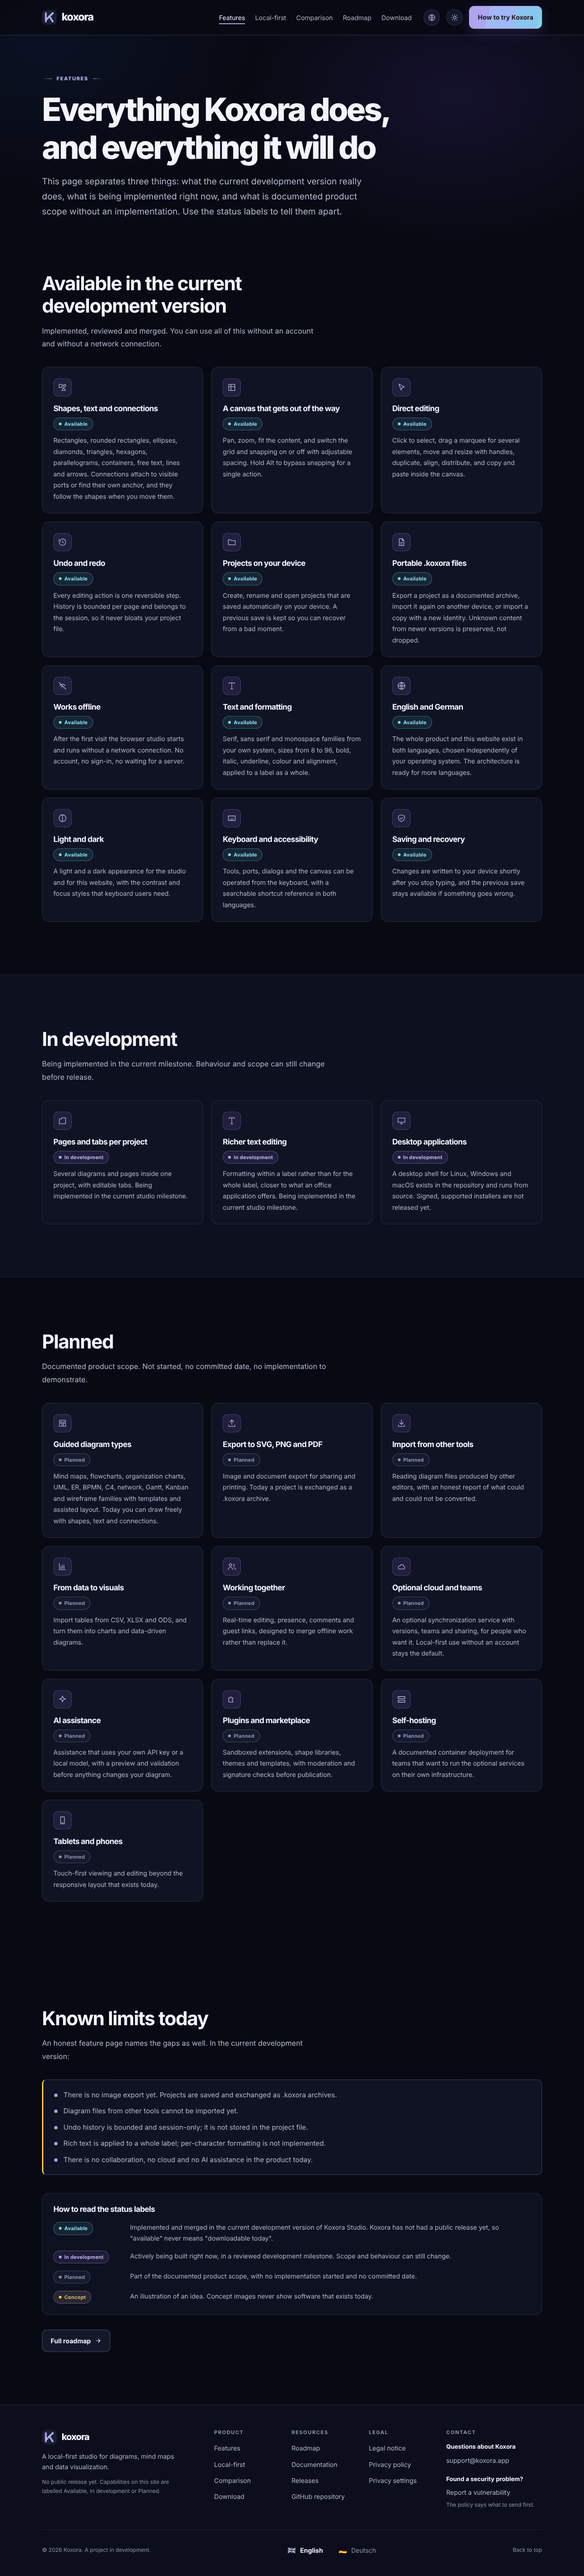
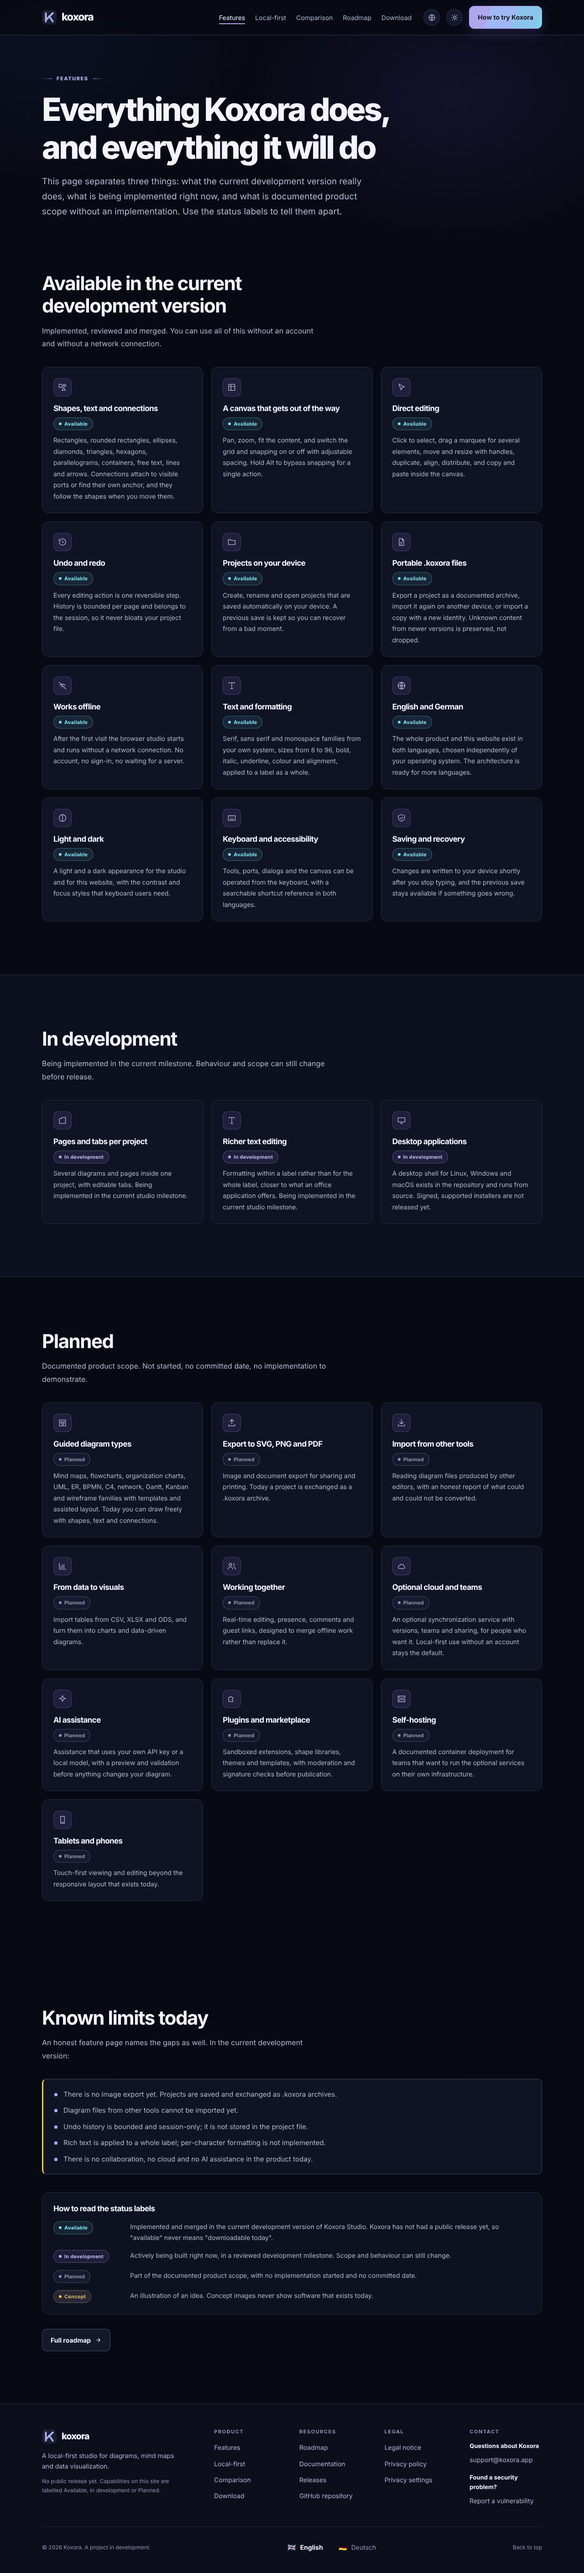
fix(website): keep the established footer layout, trim the contact column
The Product Owner's full-footer screenshot showed that the existing
desktop layout is already right, so the column widths, the brand block,
the spacing and the bottom bar go back to what they were. The previous
commit had widened the contact track to fit an explanatory line.

What remains from that commit is the part that was actually asked for:
the repository link lives with the other resources and nowhere else, and
the contact column is a concise support point plus one named security
action. The explanatory sentence is gone, because the policy the action
links to carries the reporting instructions, and the security address is
not printed in the footer, so nothing there suggests that the mailbox
has been verified.

A unit test now also pins the rule that statements about the product
survive a website launch: the footer's "No public release yet" and "A
project in development" are not launch-sensitive, are absent from the
launch switch, and carry no claim about this website's own publication.

The deferred contact form is tracked as issue #30 and the open point
names it.

Screenshots: the footer in both languages on desktop and phone.

Verification on 2026-10-25: pnpm check passed with 227 unit tests;
pnpm test:website 242 passed and 7 skipped.

No merge, release, deployment or DNS change is performed or requested.

Refs #21, #30

Claude-Session: https://claude.ai/code/session_01BTL8JWSSzA11FJRaCkkjVN

diff --git a/apps/website/src/content/launch.test.ts b/apps/website/src/content/launch.test.ts
@@ -26,6 +26,33 @@ describe('launch-aware copy', () => {
           expect(message, `${locale} ${key}`).not.toContain(phrase);
       }
   });
+  it('leaves the statements about the product alone', () => {
+    // Publishing this website says nothing about a released studio or a
+    // downloadable build, so these lines are not launch-sensitive at all and
+    // must not appear in the switch.
+    const switched = new Set(
+      [launchCopy(false), launchCopy(true)].flatMap((copy) => [
+        copy.statusSummary,
+        copy.milestone,
+      ]),
+    );
+    for (const key of ['footer.statusNote', 'footer.copyright'] as const) {
+      expect(switched.has(key), key).toBe(false);
+      for (const locale of locales) {
+        const message = catalog.translate(locale, key, { year: 2026 });
+        for (const phrase of preLaunchPhrases)
+          expect(message, `${locale} ${key}`).not.toContain(phrase);
+      }
+    }
+    // Both still say there is no public release, which stays true until the
+    // studio itself is released.
+    expect(catalog.translate('en', 'footer.statusNote')).toContain(
+      'No public release yet',
+    );
+    expect(catalog.translate('de', 'footer.statusNote')).toContain(
+      'Noch keine öffentliche Veröffentlichung',
+    );
+  });
   it('keeps the truth about the studio and downloads after the launch', () => {
     const copy = launchCopy(true);
     // Publishing the website says nothing about a released studio or a

diff --git a/apps/website/src/styles/layout.css b/apps/website/src/styles/layout.css
@@ -528,19 +528,12 @@ html[data-js='on'] .language-option:hover {
 }
 .footer-nav {
   display: grid;
-  gap: 28px 32px;
-  /* Link groups stay narrow; the contact group needs room for an address and
-     a sentence, so it gets its own wider track rather than a cramped column. */
+  gap: 28px;
   grid-template-columns: repeat(auto-fit, minmax(150px, 1fr));
-}
-@media (min-width: 700px) {
-  .footer-nav {
-    grid-template-columns: repeat(3, minmax(130px, 1fr)) minmax(210px, 1.3fr);
-  }
 }
 .footer-contacts {
   display: grid;
-  gap: 18px;
+  gap: 16px;
 }
 .footer-contacts dt {
   font-size: 13px;
@@ -556,12 +549,6 @@ html[data-js='on'] .language-option:hover {
 }
 .footer-contacts dd a:hover {
   color: var(--text);
-}
-.footer-contact-note {
-  display: block;
-  margin-top: 4px;
-  font-size: 12px;
-  color: var(--faint);
 }
 .footer-column h2 {
   font-size: 11px;

diff --git a/apps/website/src/components/layout.tsx b/apps/website/src/components/layout.tsx
@@ -262,9 +262,6 @@ function Footer(context: PageContext) {
                     <a href={site.securityUrl} rel="noopener">
                       {t('footer.security')}
                     </a>
-                    <span className="footer-contact-note">
-                      {t('footer.securityPolicyNote')}
-                    </span>
                   </dd>
                 </div>
               </dl>

diff --git a/apps/website/src/content/messages/de.ts b/apps/website/src/content/messages/de.ts
@@ -353,7 +353,6 @@ export const de: Record<WebsiteMessageKey, string> = {
   'footer.repository': 'GitHub-Repository',
   'footer.issues': 'Issues und Rückmeldungen',
   'footer.security': 'Sicherheitslücke melden',
-  'footer.securityPolicyNote': 'Die Richtlinie sagt, was zuerst zu senden ist.',
   'footer.backToTop': 'Nach oben',
 
   'consent.banner.title': 'Ihre Datenschutz-Entscheidung',

diff --git a/apps/website/src/content/messages/en.ts b/apps/website/src/content/messages/en.ts
@@ -349,7 +349,6 @@ export const en = {
   'footer.repository': 'GitHub repository',
   'footer.issues': 'Issues and feedback',
   'footer.security': 'Report a vulnerability',
-  'footer.securityPolicyNote': 'The policy says what to send first.',
   'footer.backToTop': 'Back to top',
 
   'consent.banner.title': 'Your privacy choices',

diff --git a/docs/platform/website-w1.md b/docs/platform/website-w1.md
@@ -111,8 +111,8 @@ Results:
 
 | Command | Result |
 | --- | --- |
-| `pnpm check` | Passed. Type check, lint, format, 226 unit tests in 17 files, documentation validation, dependency licence report |
-| Unit tests of the website | 43 of those 226, covering the route table, catalog completeness, the consent record, the search metadata, the launch copy and the shared control metrics |
+| `pnpm check` | Passed. Type check, lint, format, 227 unit tests in 17 files, documentation validation, dependency licence report |
+| Unit tests of the website | 44 of those 227, covering the route table, catalog completeness, the consent record, the search metadata, the launch copy and the shared control metrics |
 | `pnpm website:build` | Passed. 61 files and 30 redirects emitted, plus the hosting configuration |
 | `pnpm test:website` | 242 passed, 7 skipped, across the desktop, tablet and phone projects |
 | `pnpm test:e2e --project chromium --project mobile` | 90 passed; the studio build output is byte-identical with and without this branch |
@@ -135,7 +135,7 @@ Captured with `pnpm capture:website` against the preview server and the consent 
 | Language menu, German, phone | `language-menu-de-mobile.png` |
 | Header over scrolled content | `sticky-header-en.png` |
 | Footer, English dark and German light | `footer-en-desktop.png`, `footer-de-desktop.png` |
-| Footer, German, phone | `footer-de-mobile.png` |
+| Footer, German and English, phone | `footer-de-mobile.png`, `footer-en-mobile.png` |
 | Home, German, phone | `home-de-mobile.png` |
 | Home, English, tablet | `home-en-tablet.png` |
 | Navigation menu, German, phone | `menu-de-mobile.png` |
@@ -206,7 +206,7 @@ A marketing website that is still being reviewed says so; once it is live, that 
 
 The header is `position: sticky` at the top. Nothing inside it is clipped, because no ancestor is a scroll container: the body uses `overflow-x: clip`, which prevents sideways scrolling without becoming one, so the language popover and the expanded phone menu still draw over the content below. `scroll-padding-top` keeps a fragment target, the skip link and the back-to-top link clear of the header instead of landing underneath it. Sticky positioning leaves the element in flow, so nothing shifts when it engages. On a viewport shorter than 520 pixels, a phone held sideways, the header scrolls away with the page rather than taking most of the screen.
 
-The footer groups links by what a reader came to do. Product, Resources and Legal keep their own columns, the repository link sits with the other resources, and the contact column names two different errands rather than listing addresses next to unrelated links: a question about Koxora goes to the support mailbox, and a security problem starts at the security policy, which says what is safe to send before a private channel exists.
+The footer keeps the layout it had. Product, Resources and Legal stay as they were, with their column widths, the brand block and the bottom bar untouched; the repository link moved out of the contact column into Resources, where it belongs, and appears nowhere else. The contact column is a concise support point plus one named security action: a question about Koxora goes to the support mailbox, a security problem goes to the security policy, which says what is safe to send before a private channel exists. The security address itself is not printed there, so nothing in the footer suggests that the mailbox has been verified.
 
 ## 15. Appearance and language controls
 
@@ -251,5 +251,5 @@ The reviews also confirmed, by measurement rather than by reading, that the stud
 2. The legal pages carry prepared content; [the checklist](../legal/website-legal-review.md) lists what the operator must confirm before publication.
 3. T-008 is decided for this milestone: the Product Owner accepted the static approach on the accepted foundation stack on 2026-10-24. A dedicated website framework stays an option for a later content-management need.
 4. No content management system exists. Content changes are code changes until a later milestone decides otherwise.
-5. **No contact form.** The Product Owner decided on 2026-10-25 that a real form belongs to the next website milestone, because it needs mail delivery, rate limiting, spam handling, a privacy assessment and an operator-verified service, none of which a static site can carry. W1 therefore offers addresses that work today and advertises no form, no placeholder and no third-party collection service. The follow-up is a separate issue and does not widen W1.
+5. **No contact form.** The Product Owner decided on 2026-10-25 that a real form belongs to the next website milestone, because it needs mail delivery, rate limiting, spam handling, a privacy assessment and an operator-verified service, none of which a static site can carry. W1 therefore offers addresses that work today and advertises no form, no placeholder and no third-party collection service. The follow-up is tracked as [Issue #30](https://github.com/Koxora-Development/koxora/issues/30) and does not widen W1.
 6. **The security address is a first contact, not a channel for details.** Its delivery and the access to it are untested, so `SECURITY.md` asks for a first message without reproduction steps or proof of concept and agrees a channel before the technical part. When the operator has verified delivery and access, that restriction can be lifted and the policy updated.
